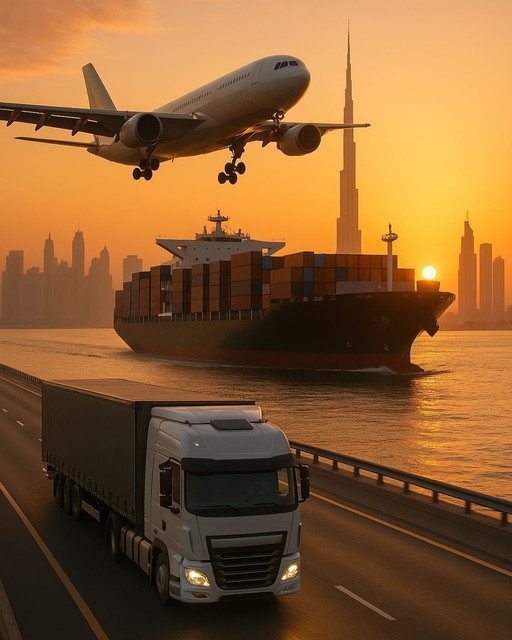
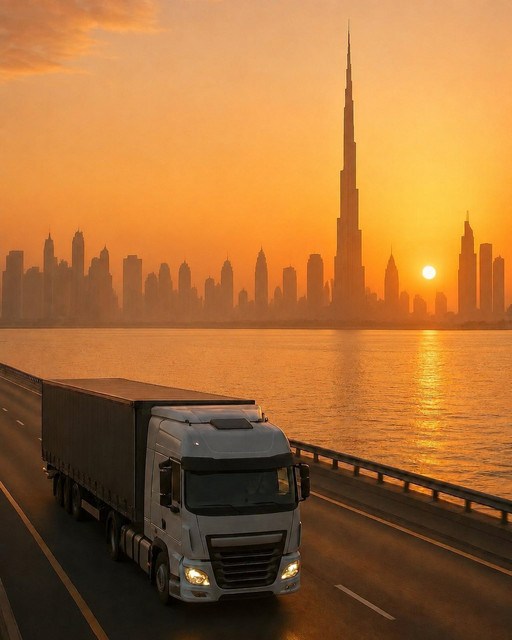
feat: replace mobile hero background with new photo

diff --git a/src/styles.css b/src/styles.css
@@ -7856,6 +7856,23 @@ h1 small {
    ══════════════════════════════════════════════════════════════════════════════ */
 @media (max-width: 767px) {
 
+  /* ── 0. Hero — photo background on mobile ───────────────────────────────── */
+  .hero {
+    background:
+      linear-gradient(
+        to bottom,
+        rgba(14, 17, 20, 0.30) 0%,
+        rgba(14, 17, 20, 0.55) 40%,
+        rgba(14, 17, 20, 0.88) 75%,
+        rgba(14, 17, 20, 0.97) 100%
+      ),
+      url('/hero-truck.jpg') center 40% / cover no-repeat;
+    min-height: 88svh;
+  }
+
+  .hero::before {
+    display: none;
+  }
 
   /* ── 1. Telegram CTA: compact floating pill bottom-right ───────────────── */
   .mobile-bottom-telegram {